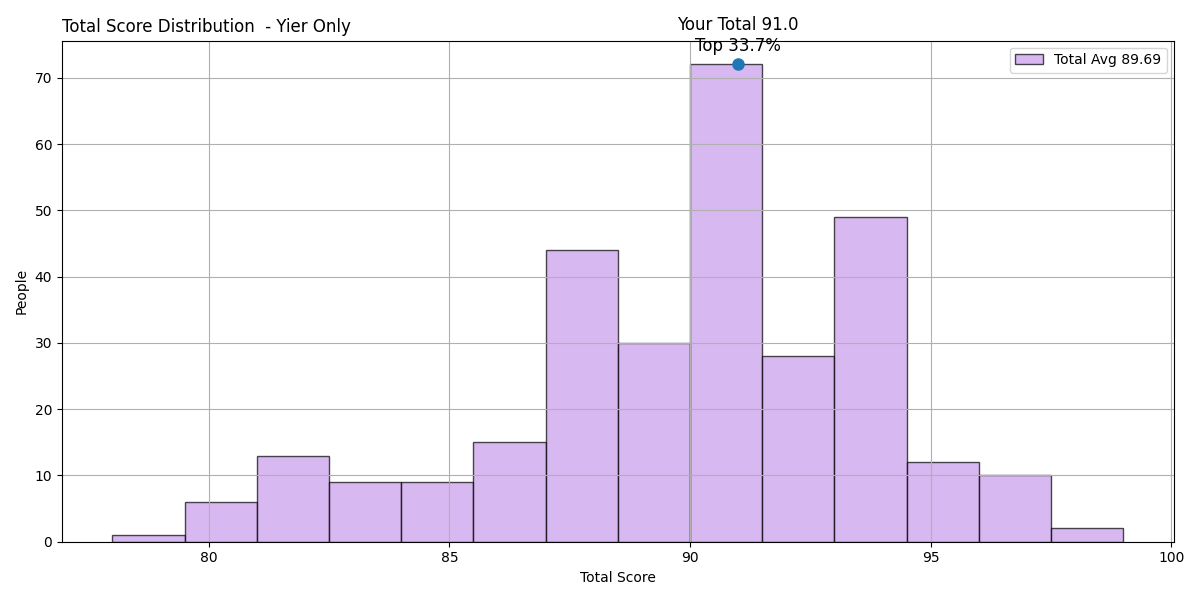
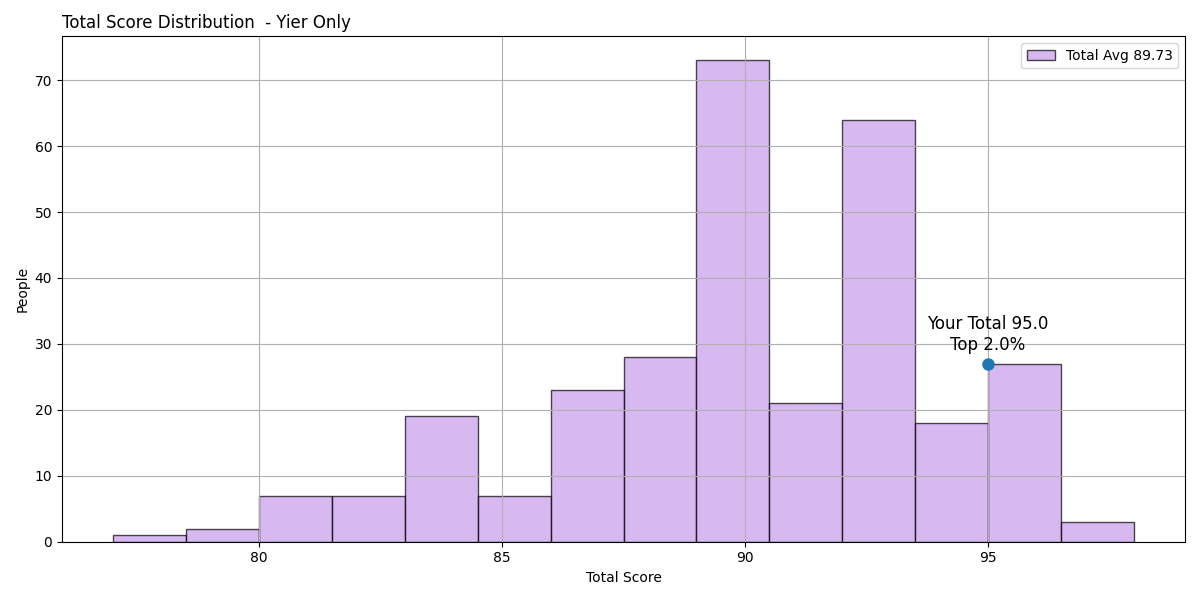
新增模擬腳本以顯示 GPA 最高的前幾名玩家資訊，並更新相關模擬邏輯與圖表顯示

Changed region(s): [[0.0, 0.03, 0.9867, 0.93], [0.4933, 0.93, 0.555, 0.99], [0.9558, 0.9, 0.9867, 0.93]]

diff --git a/simulation.py b/simulation.py
@@ -38,6 +38,7 @@ class Simulation:
         self.midterm, self.final = [], []
         self.knowledge, self.gpa = [], []
         self.total_scores = []
+        self.player_records = []  # 記錄每個玩家的詳細資訊
         self.out_dir = Path(out_dir)
         self.out_dir.mkdir(parents=True, exist_ok=True)
 
@@ -48,11 +49,16 @@ class Simulation:
         """執行整體模擬，產生所有 raw data。"""
         self.midterm.clear(); self.final.clear()
         self.knowledge.clear(); self.gpa.clear()
+        self.player_records.clear()
 
         for _ in range(self.n_players):
-            player = random.choice(self.characters)()
+            player_class = random.choice(self.characters)
+            player = player_class()
+            action_history = []  # 記錄該玩家的所有動作
+            
             for _ in range(7):
                 action = self._choose_action(player)
+                action_history.append(action)
                 getattr(player, action)(1)
                 player.week_number += 1
 
@@ -60,6 +66,7 @@ class Simulation:
 
             for _ in range(7):
                 action = self._choose_action(player)
+                action_history.append(action)
                 getattr(player, action)(1)
                 player.week_number += 1
 
@@ -71,6 +78,17 @@ class Simulation:
             self.knowledge.append(player.knowledge)
             self.gpa.append(player.GPA)
             self.total_scores.append(player.total_score)
+            
+            # 記錄完整資訊
+            self.player_records.append({
+                'character': player_class.__name__,
+                'gpa': player.GPA,
+                'midterm': player.midterm,
+                'final': player.final,
+                'total_score': player.total_score,
+                'actions': action_history,
+                'action_counts': Counter(action_history)
+            })
 
     def _choose_action(self, player) -> str:
         """用行為樹或隨機策略決定下一步行動。"""
@@ -266,9 +284,9 @@ class Simulation:
 
     def run_and_plot_all_with_player(self, player) -> None:
         self.run()
-        self.plot_midterm_final(highlight_mid=player.midterm, highlight_final=player.final)
-        self.plot_total(highlight=player.total_score)
-        self.plot_gpa(highlight=player.GPA)
+        self.plot_midterm_final(highlight_mid=player.midterm, highlight_final=player.final,title_add=" - All Characters")
+        self.plot_total(highlight=player.total_score, title_add=" - All Characters")
+        self.plot_gpa(highlight=player.GPA, title_add=" - All Characters")
 
     def run_character_simulation_with_player(self, player, char_cls) -> None:
         """
@@ -392,6 +410,73 @@ class Simulation:
             sim.plot_total()
             sim.plot_gpa()
             sim.export_gpa_csv()
+
+    def show_top_players(self, top_n: int = 10) -> None:
+        """顯示 GPA 最高的前幾名玩家的詳細資訊"""
+        if not self.player_records:
+            print("請先執行 run() 進行模擬！")
+            return
+        
+        # 依 GPA 由高到低排序
+        sorted_players = sorted(self.player_records, key=lambda x: x['gpa'], reverse=True)
+        
+        print(f"\n{'='*80}")
+        print(f"GPA 最高的前 {top_n} 名玩家詳細資訊")
+        print(f"{'='*80}\n")
+        
+        for i, player in enumerate(sorted_players[:top_n], 1):
+            print(f"第 {i} 名")
+            print(f"  角色: {player['character']}")
+            print(f"  GPA: {player['gpa']:.2f}")
+            print(f"  期中考: {player['midterm']:.1f}")
+            print(f"  期末考: {player['final']:.1f}")
+            print(f"  總分: {player['total_score']:.1f}")
+            print(f"  動作統計:")
+            for action, count in sorted(player['action_counts'].items(), key=lambda x: x[1], reverse=True):
+                percentage = count / 14 * 100  # 總共 14 個動作
+                print(f"    - {action}: {count} 次 ({percentage:.1f}%)")
+            print(f"  動作順序: {' → '.join(player['actions'])}")
+            print()
+
+    def show_top_players_by_character(self, top_n: int = 3) -> None:
+        """分別顯示每個角色 GPA 最高的前幾名"""
+        if not self.player_records:
+            print("請先執行 run() 進行模擬！")
+            return
+        
+        # 按角色分組
+        from collections import defaultdict
+        character_groups = defaultdict(list)
+        for player in self.player_records:
+            character_groups[player['character']].append(player)
+        
+        # 對每個角色的玩家按 GPA 排序
+        for char_name in character_groups:
+            character_groups[char_name].sort(key=lambda x: x['gpa'], reverse=True)
+        
+        print(f"\n{'='*80}")
+        print(f"每個角色 GPA 最高的前 {top_n} 名")
+        print(f"{'='*80}\n")
+        
+        # 按角色名稱排序輸出
+        for char_name in sorted(character_groups.keys()):
+            players = character_groups[char_name]
+            print(f"【{char_name}】 角色 Top {top_n}")
+            print(f"{'-'*80}")
+            
+            for i, player in enumerate(players[:top_n], 1):
+                print(f"\n  第 {i} 名")
+                print(f"    GPA: {player['gpa']:.2f}")
+                print(f"    期中考: {player['midterm']:.1f}")
+                print(f"    期末考: {player['final']:.1f}")
+                print(f"    總分: {player['total_score']:.1f}")
+                print(f"    動作統計:")
+                for action, count in sorted(player['action_counts'].items(), key=lambda x: x[1], reverse=True):
+                    percentage = count / 14 * 100
+                    print(f"      - {action}: {count} 次 ({percentage:.1f}%)")
+                print(f"    動作順序: {' → '.join(player['actions'])}")
+            
+            print(f"\n{'-'*80}\n")
 
 
 

diff --git a/UI/rank_scene.py b/UI/rank_scene.py
@@ -156,7 +156,7 @@ class RankScene(BaseScene):
         panel_height = 420
         
         # 背景面板
-        pygame.draw.rect(screen, (220, 220, 220), (panel_x, panel_y, panel_width, panel_height), border_radius=10)
+        pygame.draw.rect(screen, (170, 170, 170), (panel_x, panel_y, panel_width, panel_height), border_radius=10)
         pygame.draw.rect(screen, (100, 100, 100), (panel_x, panel_y, panel_width, panel_height), 2, border_radius=10)
         
         # 按鈕 1: 全角色
@@ -190,7 +190,7 @@ class RankScene(BaseScene):
         hint3 = hint_font.render("Esc 退出", True, (40, 40, 40))
         screen.blit(hint1, (panel_x + 100, panel_y + 330))
         screen.blit(hint2, (panel_x + 100, panel_y + 360))
-        screen.blit(hint3, (panel_x + 120, panel_y + 390))
+        screen.blit(hint3, (panel_x + 115, panel_y + 390))
         
         # 儲存按鈕矩形供事件處理使用
         self.button1_rect = button1_rect

diff --git a/test_top_players.py b/test_top_players.py
@@ -1,0 +1,25 @@
+#!/usr/bin/env python3
+# test_top_players.py
+"""測試腳本：顯示 GPA 最高的前幾名玩家資訊"""
+
+import sys
+import os
+
+# 確保可以導入專案模組
+sys.path.insert(0, os.path.dirname(__file__))
+
+from simulation import Simulation
+from bvtree import BehaviorTreePolicy
+
+if __name__ == "__main__":
+    print("開始執行模擬...")
+    policy = BehaviorTreePolicy(epsilon=0.1)
+    sim = Simulation(n_players=300, policy=policy)
+    sim.run()
+    print("模擬完成！\n")
+    
+    # 分別顯示每個角色的前 3 名
+    sim.show_top_players_by_character(top_n=3)
+    
+    # 如果想看全體排名前 10 名，取消下面這行註解
+    # sim.show_top_players(top_n=10)
